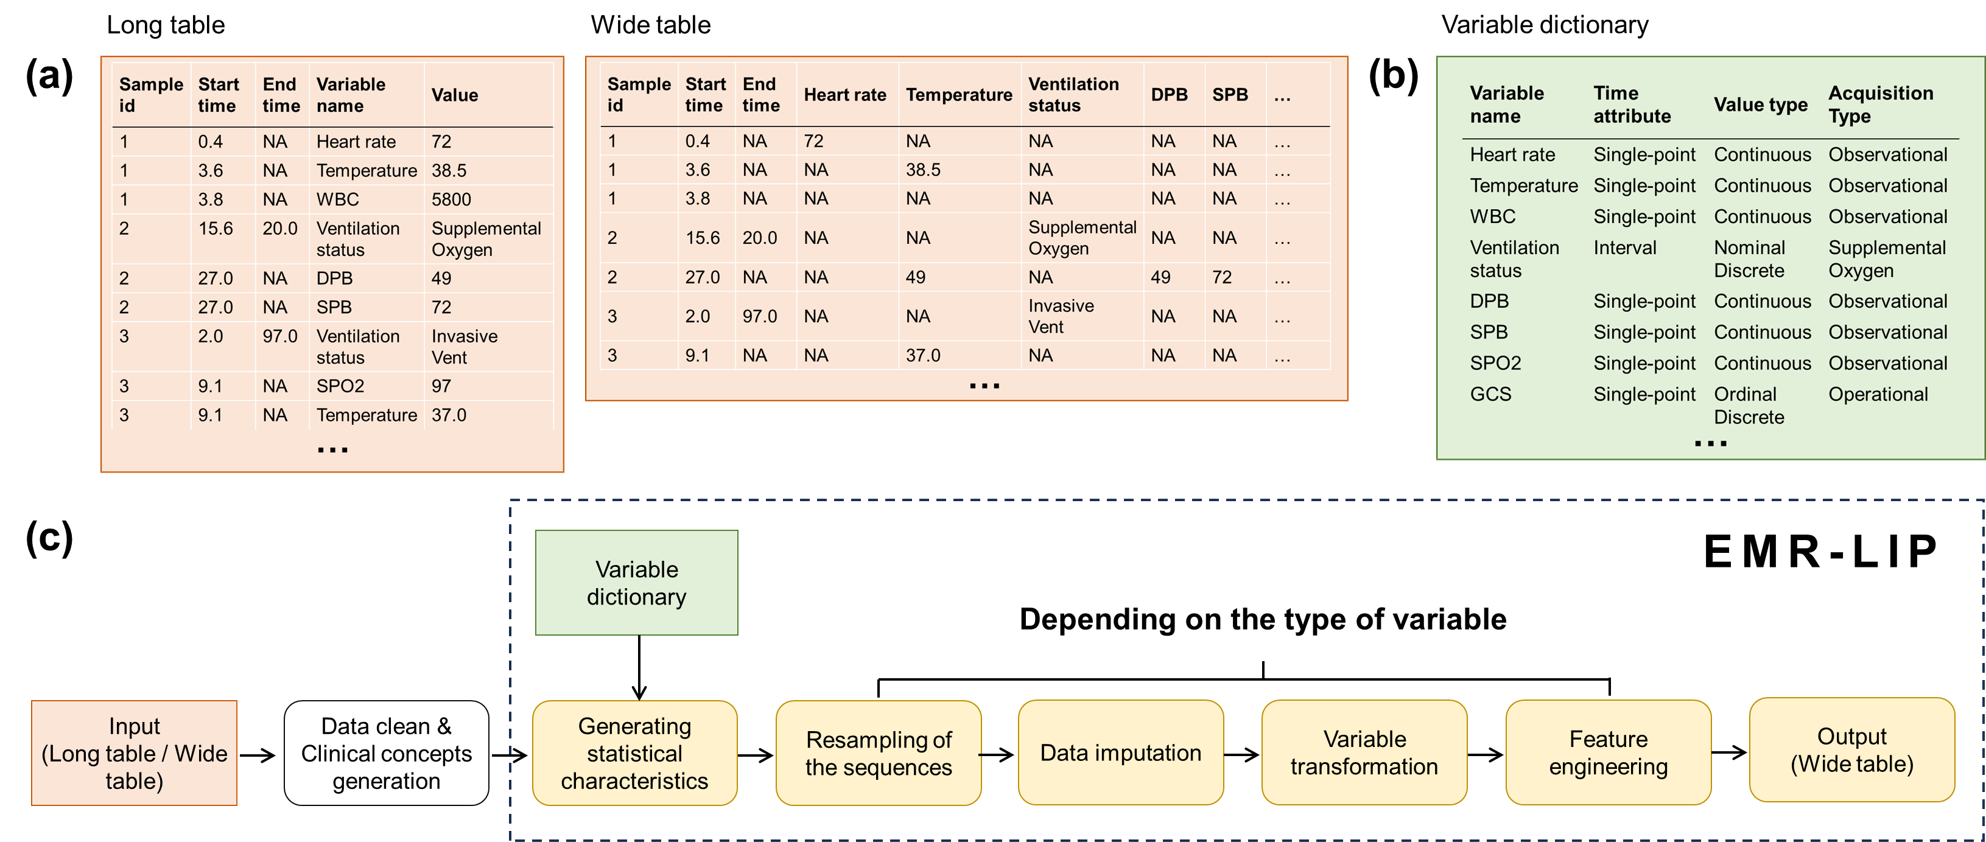
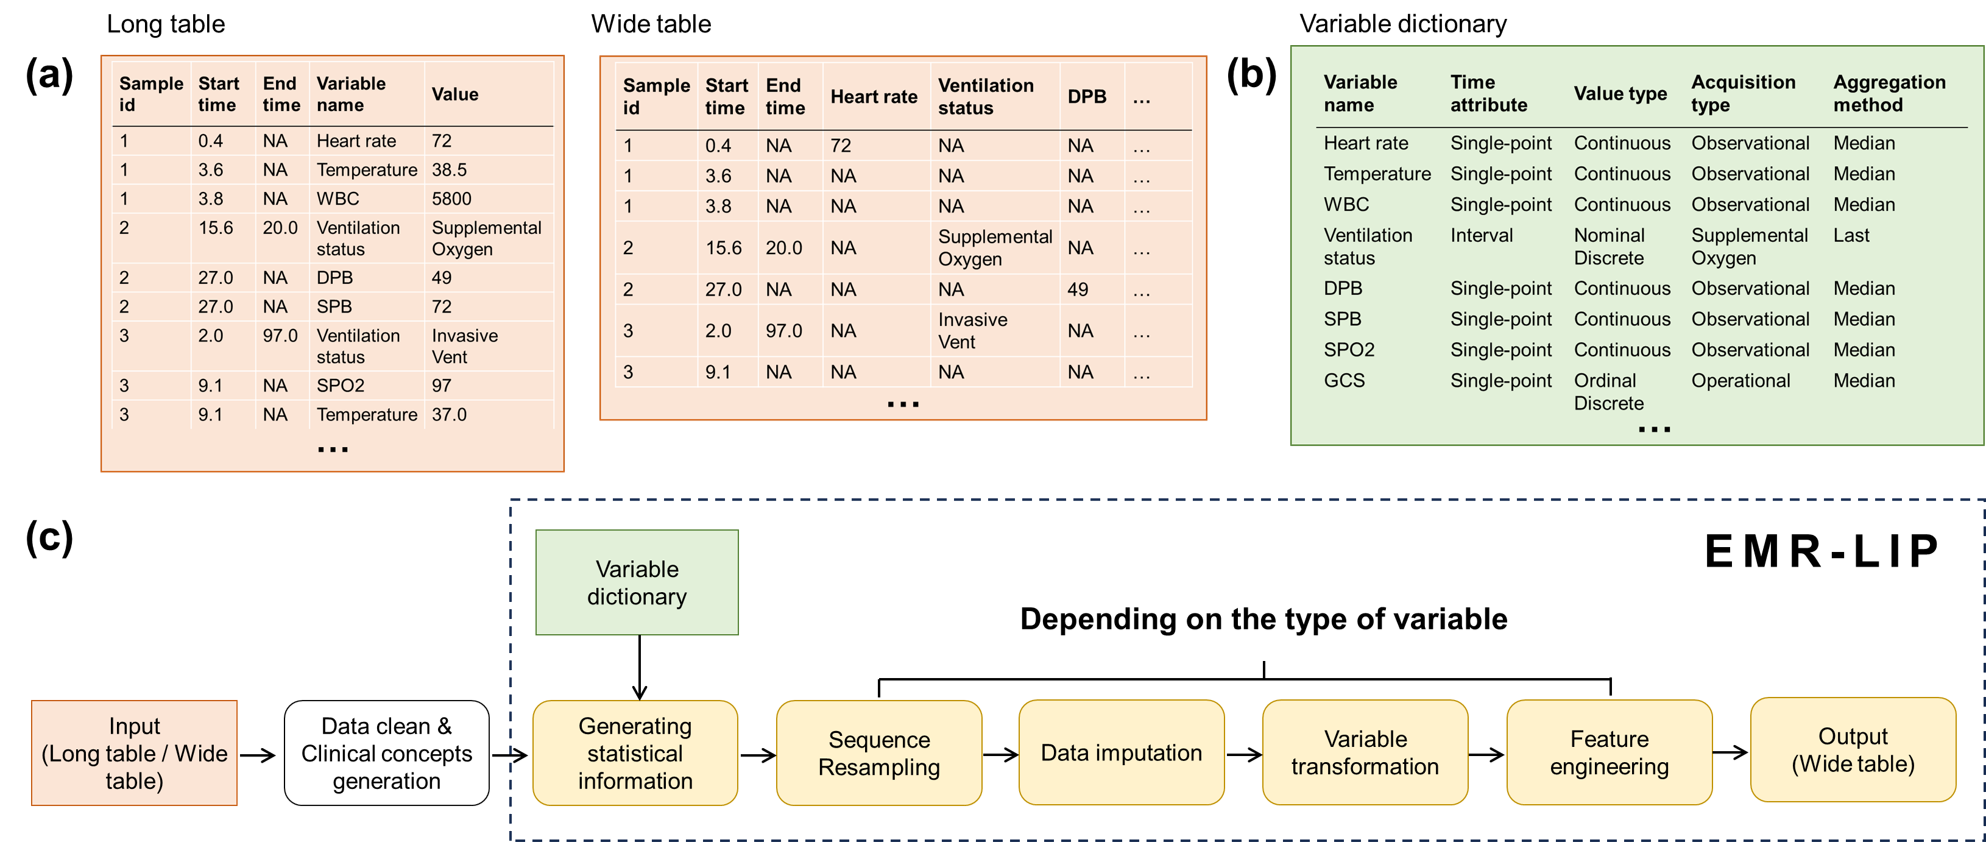
debug

diff --git a/README.md b/README.md
@@ -1,1 +1,82 @@
 # EMR-LIP
+
+
+### EMR-LIP 简介
+
+EMR-LIP 是一个 light framework, 提供了一系列在不同EMR数据库之间通用的工具，用于处理 EMR 中纵向不规则数据. EMR-LIP框架专注于将 long table 或 wide table 转化为方便下游任务建模的规则的多元时间序列，包括固定点触发的预测模型或 continuous prediciton model 的开发，或者强化学习模型的开发。
+
+需要说明的是，EMR-LIP 不包含一些与研究或数据库特异的 data cleaning 工作，包括异常值处理，变量合并以及 clinical concepts 的生成，因为这些工作难以用统一的程序在不同数据库之间进行迁移。相反，EMR-LIP将纵向不规则数据处理过程中的共性部分抽象了出来，并针对这些内容开发了灵活的工具，从而促进EMR纵向不规则数据预处理的标准化和下游任务的可比性。
+
+EMR-LIP 其他framework的核心差异在于，EMR-LIP提供了更加细粒度的变量分类。在纵向不规则数据的预处理过程中，通常涉及到序列重采样，缺失值填补，变量转化等过程，不同类型的变量在这些过程中的处理细节是不同的。之前的框架大多只关注变量的 value type, 并将其分类为连续型和离散型，这种分类不足以正确处理EMR-LIP中所有的纵向不规则采样的变量。
+
+The EMR-LIP framework classifies variables in EMRs from three distinct perspectives: temporal attributes, value types, and acquisition methods.  In terms of temporal attributes, variables are categorized into static, single-point, and interval-based types.  From the viewpoint of value types, they are classified as numerical, ordinal discrete, nominal discrete and binary.  Based on acquisition methods, variables are designated as either observational variables or operational variables. A comprehensive breakdown of the variable types is provided in **Table 1**. 
+
+### **Table 1. Classification of variables in EMR databases.**
+
+<table>
+    <tr>
+        <th>Classification</th>
+        <th>Type</th>
+        <th>Description</th>
+        <th>Example Variable</th>
+    </tr>
+    <tr>
+        <td rowspan="3">By time Attribute</td>
+        <td>Static</td>
+        <td>Without temporal attributes</td>
+        <td>Gender</td>
+    </tr>
+    <tr>
+        <td>Single-point</td>
+        <td>Contains only a single time information</td>
+        <td>Temperature</td>
+    </tr>
+    <tr>
+        <td>Interval</td>
+        <td>Contains a start and end time</td>
+        <td>Ventilation status</td>
+    </tr>
+    <tr>
+        <td rowspan="4">By value type</td>
+        <td>Continuous</td>
+        <td>Can take continuous values</td>
+        <td>Temperature</td>
+    </tr>
+    <tr>
+        <td>Ordinal Discrete</td>
+        <td>Discrete values with an inherent order</td>
+        <td>GCS (Glasgow Coma Scale) score</td>
+    </tr>
+    <tr>
+        <td>Nominal Discrete</td>
+        <td>Discrete values without any inherent order</td>
+        <td>Ventilation status</td>
+    </tr>
+    <tr>
+        <td>Binary</td>
+        <td>Has two distinct outcomes, typically representing presence or absence</td>
+        <td>Ventilation (yes/no)</td>
+    </tr>
+    <tr>
+        <td rowspan="2">By acquisition type</td>
+        <td>Observational Variable</td>
+        <td>Data naturally recorded or collected without any human intervention</td>
+        <td>Gender, Temperature</td>
+    </tr>
+    <tr>
+        <td>Operational Variable</td>
+        <td>Derived from a specific operation or action</td>
+        <td>Ventilation status</td>
+    </tr>
+</table>
+
+
+<img src="./assets/EMR-LIP.png" widht=500>
+
+### EMR-LIP 框架的组件介绍
+
+EMR-LIP 框架由input，variable dictionary, statistical information generation, sequence resampling, data imputation, variable transformation, feature engineering, output 等8部分构成，下面我们讲一一介绍.
+
+- Input
+
+EMR-LIP 接受两种形式的输入, 包括long table 和 wide table.  
